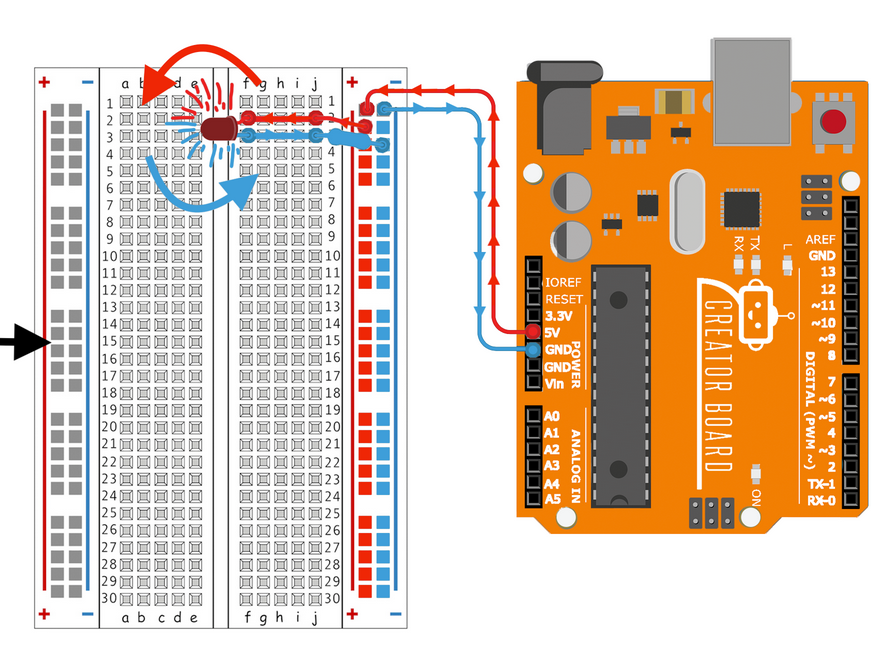
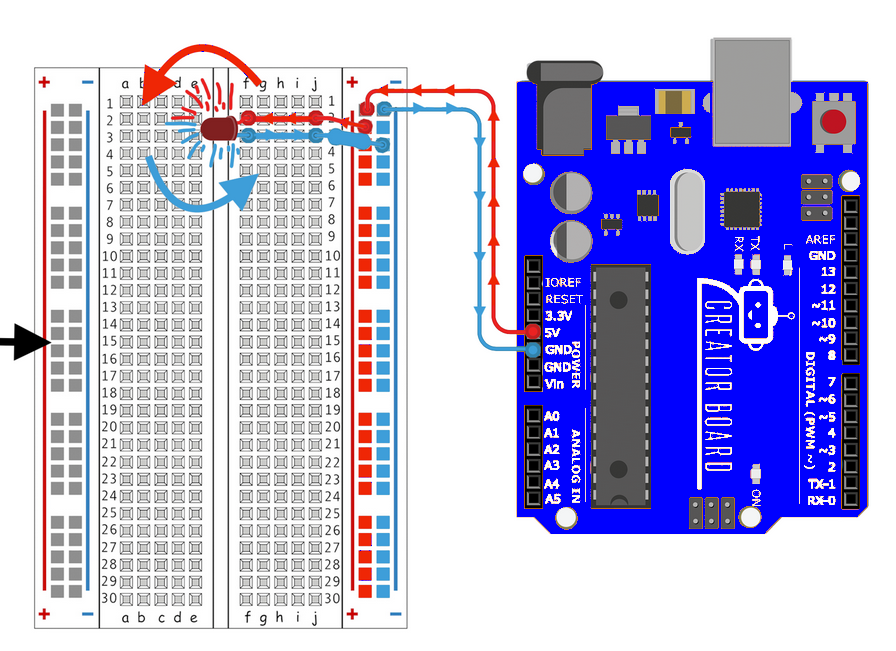
Revise Day 1
Standardize sidebar. revise images and text.

Changed region(s): [[0.5625, 0.1229, 0.9688, 0.8295]]

diff --git a/day1.html b/day1.html
@@ -4,9 +4,16 @@
 	html5up.net | @ajlkn
 	Free for personal and commercial use under the CCA 3.0 license (html5up.net/license)
 -->
+<script>
+    fetch('sidebar.html')
+        .then(response => response.text())
+        .then(data => {
+            document.getElementById('wrapper').insertAdjacentHTML("beforeend", data);
+        });
+</script>
 <html>
 <head>
-    <title>IDK WHAT TO PUT HERE AGHGAGAHGAGHAHGAG</title>
+    <title>Day 1</title>
     <meta charset="utf-8" />
     <meta name="viewport" content="width=device-width, initial-scale=1, user-scalable=no" />
     <link rel="stylesheet" href="assets/css/main.css" />
@@ -22,7 +29,7 @@
 
             <!-- Header -->
             <header id="header">
-                <a href="index.html" class="logo"><strong>Robots?</strong></a>
+                <a href="index.html" class="logo"><strong>Robotics?</strong></a>
             </header>
 
             <!-- Content -->
@@ -35,7 +42,7 @@
 
                 <p><strong>Arduino Board: </strong>Our arduino boards are programmable circuit boards. (As pictured above.)</p>
                 <p><strong>Circuit: </strong>A closed loop, like a circle, that allows electricity to flow from a power source through any components. <i>Electricity only wants to flow through a path that forms a complete loop.</i></p>
-                <p>Electricity wants to flow from a source of higher electricity in the direction of less electricity. Think of this like water. Water wants to flow from a lake with lots of water down hill. We refer to the source of electricity as the <strong>positive/+</strong> side of a circuit because you can think of it has having a lot more electricity already added in. The circuit then flows towards <strong>negative/-</strong> because it's where we will subtract the electricity from the circuit.</p>
+                <p>Electricity wants to flow from a source of higher electricity in the direction of less electricity. Think of this like water. Water wants to flow from a lake with lots of water down hill to a river with less water. We refer to the source of electricity as the <strong>positive/+</strong> side of a circuit because you can think of it has having a lot more electricity already added in. The circuit then flows towards <strong>negative/-</strong> because it's where we will subtract the electricity from the circuit.</p>
 
                 <p>On the Arduino boards we use, the 5v (5 volts) port is the main source of our electricity for our circuits, it is the source of the positive electricity. All our circuits then need to end in a GND port. GND stands for <strong>Ground</strong> this is the negative end of our circuit.</p>
 
@@ -43,8 +50,8 @@
 
                 <span><img src="images/LED.png" alt="" /></span>
 
-                <p><strong>LED: </strong>Light-emitting diode a little electrical device that lights up when supplied with electricity.</p>
-                <p>The LED's we will be using right now have 2 legs. It matters where we place these. The LED's get powered when electricity flows form the positive leg to the negative leg.</p>
+                <p><strong>LED: </strong>Light-Emitting Diode, a little electrical device that lights up when supplied with electricity.</p>
+                <p>The LED's we will be using right now have 2 legs. It matters where we place the legs. The LED's get powered when electricity flows form the positive leg to the negative leg.</p>
                 <p>The positive leg is the <strong>longer</strong> leg. Think of the positive leg as being longer because it has been added to.</p>
                 <p>The negative leg is the <strong>shorter</strong> leg. Think of the negative leg as being shorter because it has been subtracted/minused from.</p>
                 <p>Sometimes, as we build circuits, we can't see the LED legs. The LED's also have a plastic edge around them. The negative side has a flat edge. I remember this because the negative side is flat like the minus sign -.</p>
@@ -60,40 +67,13 @@
                 <span><img class="image fit" src="images/Circuit.png" alt="" /></span>
                 <p>A circuit to power an LED.</p>
 
+                <hr class="major" />
 
             </section>
 
         </div>
     </div>
-
     <!-- Sidebar -->
-    <div id="sidebar">
-        <div class="inner">
-
-            <!-- Menu -->
-            <nav id="menu">
-                <header class="major">
-                    <h2>Menu</h2>
-                </header>
-                <ul>
-                    <li><a href="index.html">Homepage</a></li>
-                    <li><a href="https://snap4arduino.rocks/" target="_blank">Snap4Arduino</a></li>
-                    <li>
-                        <span class="opener">Robotics Lessons</span>
-                        <ul>
-                            <li><a href="day1.html">Spring Day 1</a></li>
-                        </ul>
-                    </li>
-                </ul>
-            </nav>
-
-            <!-- Footer -->
-            <footer id="footer">
-                <p class="copyright">&copy; Untitled. All rights reserved. Demo Images: <a href="https://unsplash.com">Unsplash</a>. Design: <a href="https://html5up.net">HTML5 UP</a>.</p>
-            </footer>
-
-        </div>
-    </div>
 
 </div>
 

diff --git a/index.html b/index.html
@@ -4,9 +4,16 @@
 	html5up.net | @ajlkn
 	Free for personal and commercial use under the CCA 3.0 license (html5up.net/license)
 -->
+<script>
+	fetch('sidebar.html')
+			.then(response => response.text())
+			.then(data => {
+				document.getElementById('wrapper').insertAdjacentHTML("beforeend", data);
+			});
+</script>
 <html>
 	<head>
-		<title>In Progress</title>
+		<title>67Robotics</title>
 		<meta charset="utf-8" />
 		<meta name="viewport" content="width=device-width, initial-scale=1, user-scalable=no" />
 		<link rel="stylesheet" href="assets/css/main.css" />
@@ -29,48 +36,20 @@
 								<section id="banner">
 									<div class="content">
 										<header>
-											<h1>Text might go here.</h1>
+											<h1>Learning circuits, one step at a time.</h1>
 										</header>
 										<ul class="actions">
 											<li><a href="https://snap4arduino.rocks/" target="_blank" class="button big">Snap4Arduino</a></li>
 										</ul>
 									</div>
 									<span class="image object">
-										<img src="images/pic10.jpg" alt="" />
+										<img src="images/FrontPage.jpg" alt="" />
 									</span>
 								</section>
 						</div>
 					</div>
 
 				<!-- Sidebar -->
-					<div id="sidebar">
-						<div class="inner">
-
-							<!-- Menu -->
-								<nav id="menu">
-									<header class="major">
-										<h2>Menu</h2>
-									</header>
-									<ul>
-										<li><a href="index.html">Homepage</a></li>
-										<li><a href="https://snap4arduino.rocks/" target="_blank">Snap4Arduino</a></li>
-										<li>
-											<span class="opener">Robotics Lessons</span>
-											<ul>
-												<li><a href="day1.html">Spring Day 1: Intro to Circuits</a></li>
-											</ul>
-										</li>
-<!--										<li><a href="elements.html">Elements</a></li>-->
-									</ul>
-								</nav>
-
-							<!-- Footer -->
-								<footer id="footer">
-									<p class="copyright">&copy; Untitled. All rights reserved. Demo Images: <a href="https://unsplash.com">Unsplash</a>. Design: <a href="https://html5up.net">HTML5 UP</a>.</p>
-								</footer>
-
-						</div>
-					</div>
 			</div>
 
 		<!-- Scripts -->

diff --git a/generic.html b/generic.html
@@ -4,9 +4,16 @@
 	html5up.net | @ajlkn
 	Free for personal and commercial use under the CCA 3.0 license (html5up.net/license)
 -->
+<script>
+	fetch('sidebar.html')
+			.then(response => response.text())
+			.then(data => {
+				document.getElementById('wrapper').insertAdjacentHTML("beforeend", data);
+			});
+</script>
 <html>
 	<head>
-		<title>Generic</title>
+		<title>Day #</title>
 		<meta charset="utf-8" />
 		<meta name="viewport" content="width=device-width, initial-scale=1, user-scalable=no" />
 		<link rel="stylesheet" href="assets/css/main.css" />
@@ -22,7 +29,7 @@
 
 							<!-- Header -->
 								<header id="header">
-									<a href="index.html" class="logo"><strong>Robots?</strong></a>
+									<a href="index.html" class="logo"><strong>Robotics?</strong></a>
 								</header>
 
 							<!-- Content -->
@@ -43,28 +50,6 @@
 					</div>
 
 				<!-- Sidebar -->
-				<div id="sidebar">
-					<div class="inner">
-
-						<!-- Menu -->
-						<nav id="menu">
-							<header class="major">
-								<h2>Menu</h2>
-							</header>
-							<ul>
-								<li><a href="index.html">Homepage</a></li>
-								<li><a href="generic.html">Generic</a></li>
-								<!--										<li><a href="elements.html">Elements</a></li>-->
-							</ul>
-						</nav>
-
-						<!-- Footer -->
-						<footer id="footer">
-							<p class="copyright">&copy; Untitled. All rights reserved. Demo Images: <a href="https://unsplash.com">Unsplash</a>. Design: <a href="https://html5up.net">HTML5 UP</a>.</p>
-						</footer>
-
-					</div>
-				</div>
 
 			</div>
 

diff --git a/sidebar.html b/sidebar.html
@@ -1,0 +1,28 @@
+<!-- Sidebar -->
+<div id="sidebar">
+    <div class="inner">
+
+        <!-- Menu -->
+        <nav id="menu">
+            <header class="major">
+                <h2>Menu</h2>
+            </header>
+            <ul>
+                <li><a href="index.html">Homepage</a></li>
+                <li><a href="https://snap4arduino.rocks/" target="_blank">Snap4Arduino</a></li>
+                <li>
+                    <span class="opener">Robotics Lessons</span>
+                    <ul>
+                        <li><a href="day1.html">Spring Day 1: Intro to Circuits</a></li>
+                    </ul>
+                </li>
+            </ul>
+        </nav>
+
+        <!-- Footer -->
+        <footer id="footer">
+            <p class="copyright">&copy; Untitled. All rights reserved. Demo Images: <a href="https://unsplash.com">Unsplash</a>. Design: <a href="https://html5up.net">HTML5 UP</a>.</p>
+        </footer>
+
+    </div>
+</div>
